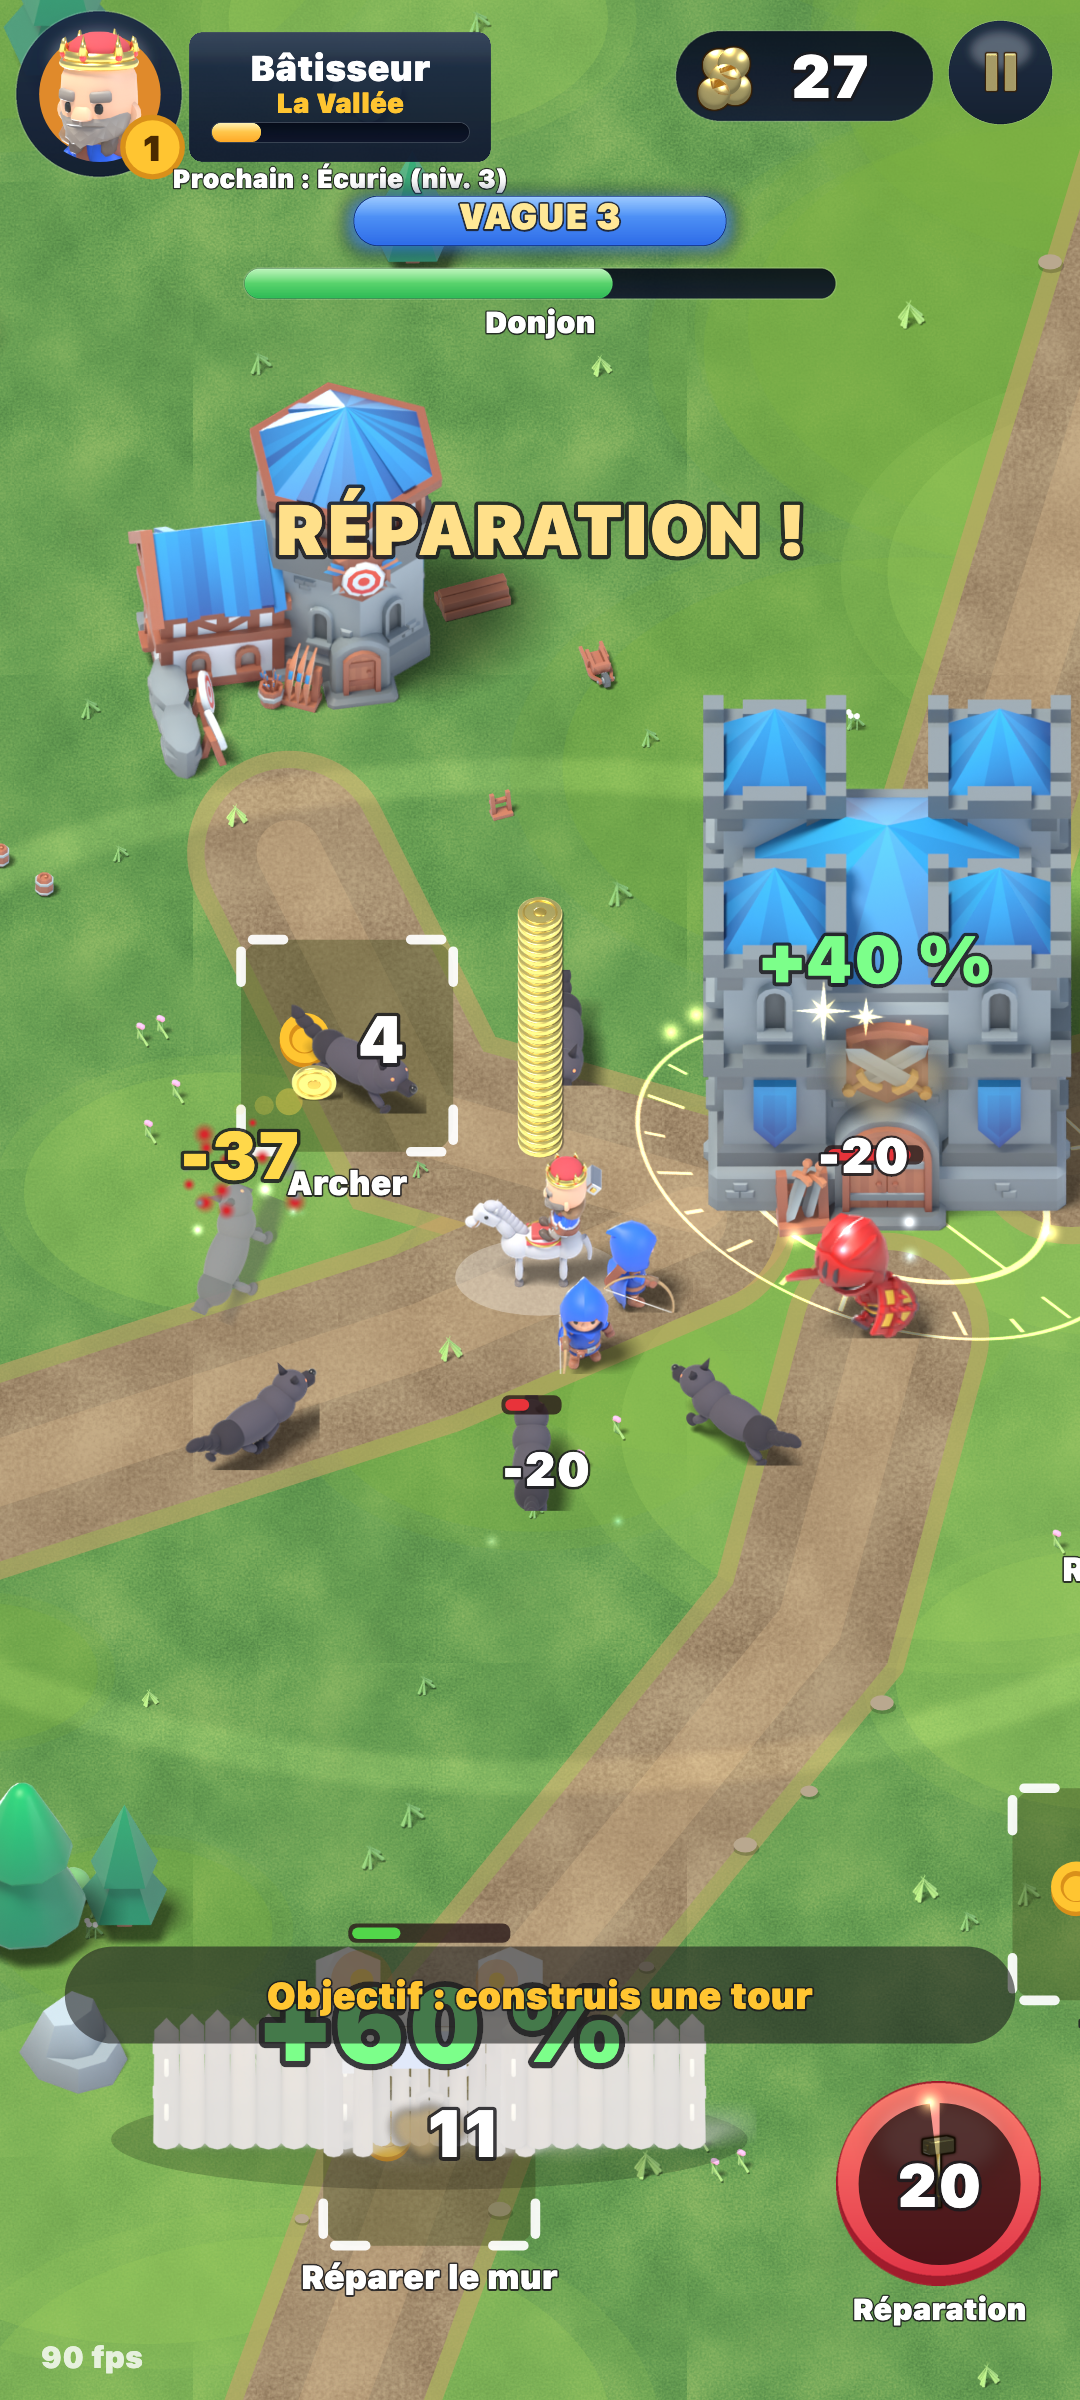
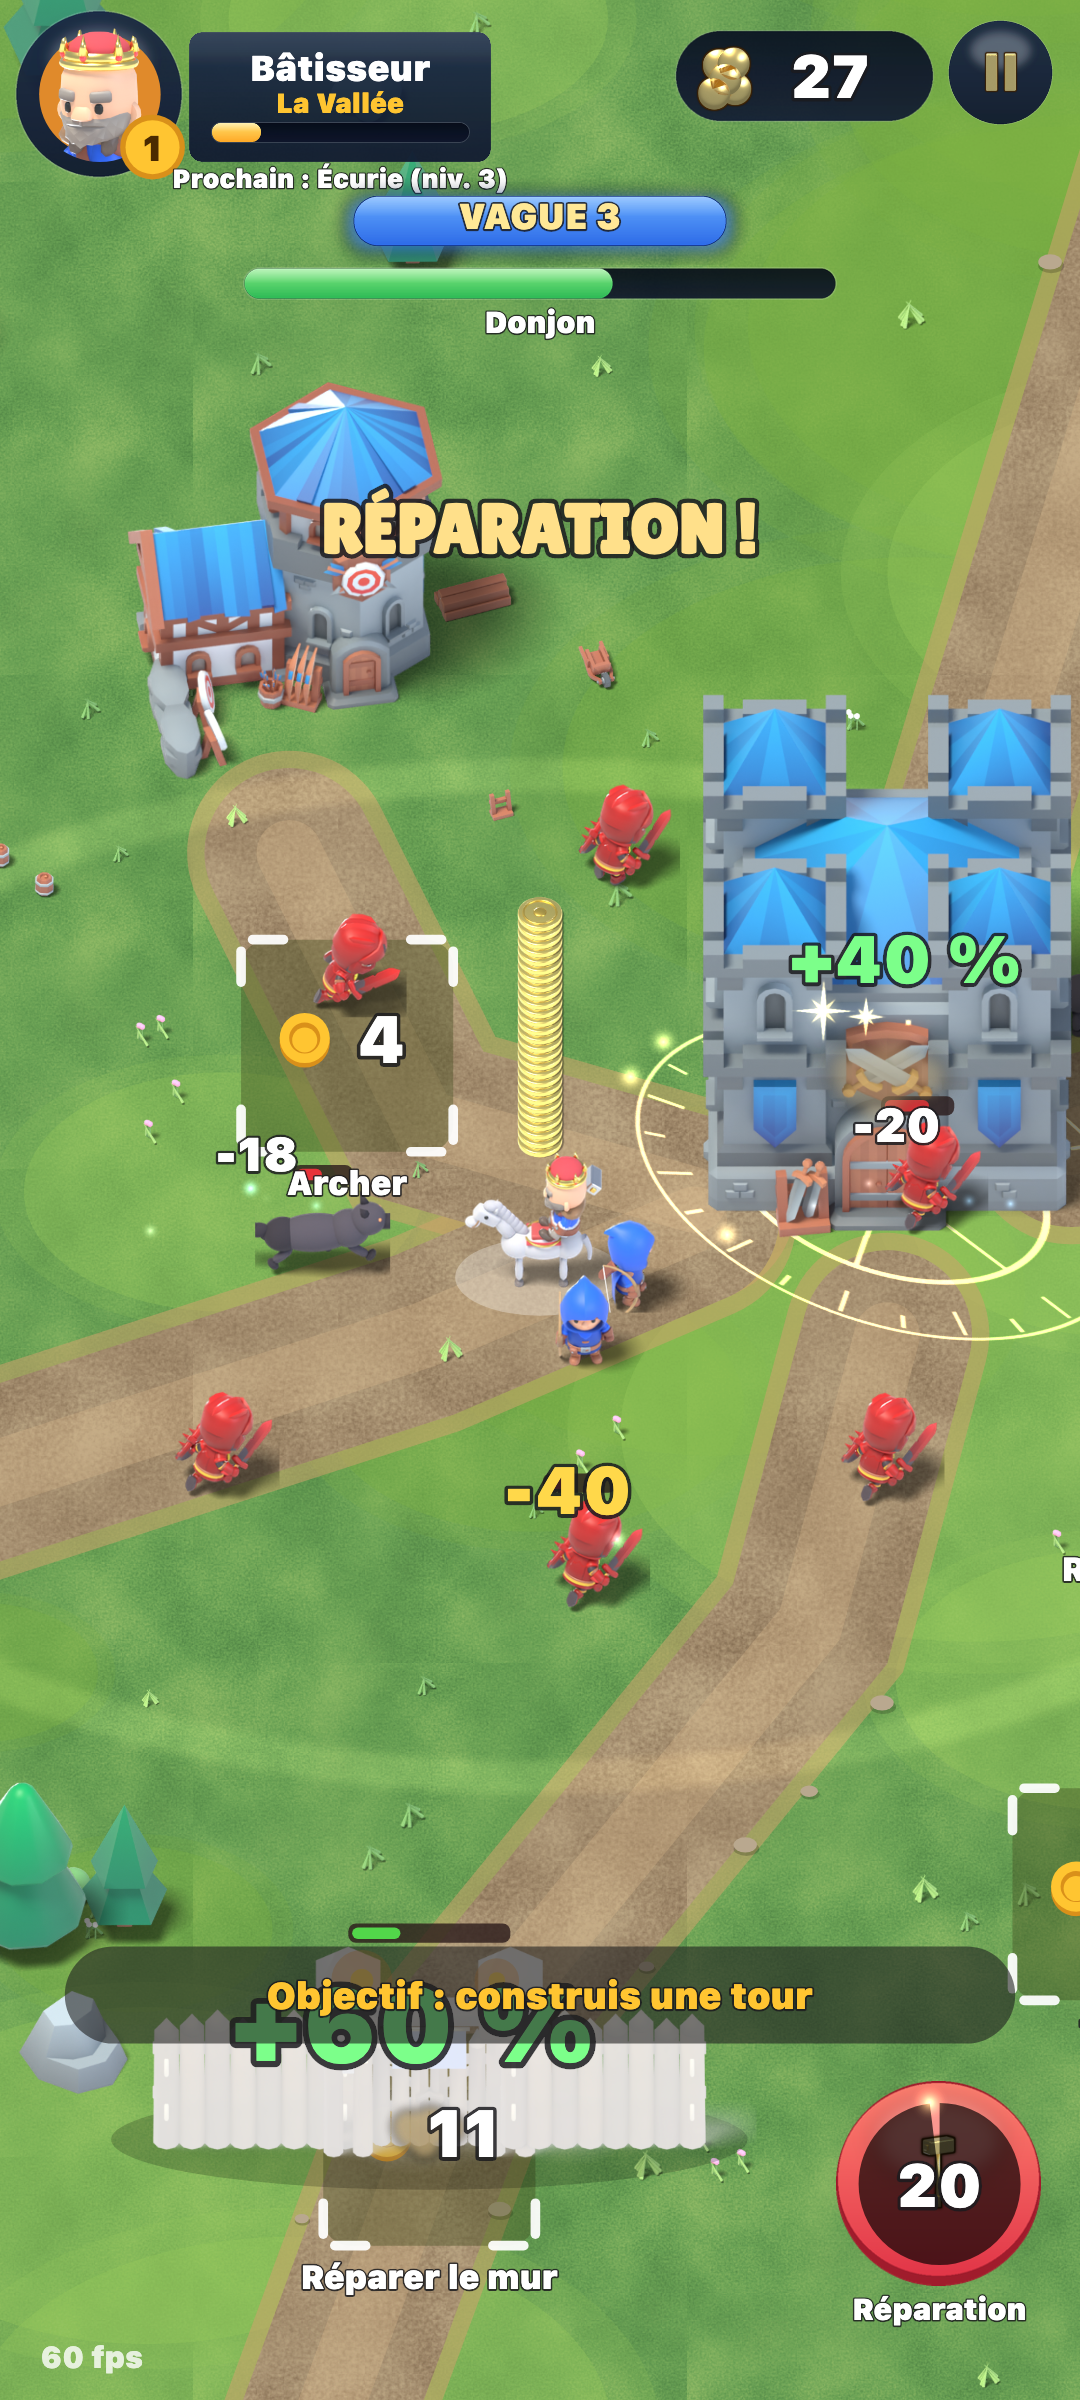
Capacités : pose de lancement du roi (épée, arc, marteau) selon la classe et le skin, utilisée pendant la rotation du Tourbillon

diff --git a/composeApp/src/commonMain/kotlin/fr/kingshot/game/Game.kt b/composeApp/src/commonMain/kotlin/fr/kingshot/game/Game.kt
@@ -402,6 +402,7 @@ class Game {
     var abilityCls = 0
     var kSpin = 0f // Tourbillon: the king turns through his 8 directions (seconds left)
     var kFlash = 0f // white flash on the king at the cast
+    var kCast = 0f // cast pose (sword / bow / hammer raised), seconds left
     var vignette = 0f // class-coloured screen edge flash (seconds left, 0.22)
     var abilityTitle = 0f // « TOURBILLON ! » title (seconds since shown, < 0.78)
     var abilityPress = 0f // HUD button bounce (seconds since press, < 0.24)
@@ -684,7 +685,7 @@ class Game {
         heroPower = (1f + 0.08f * Meta.level(heroClass, UP_POWER)) * (1f + 0.01f * min(50, Hero.level - 1))
         abilityTime = ABILITY_COOLDOWN[heroClass] * (1f - 0.06f * Meta.level(heroClass, UP_ABILITY))
         for (f in fx) f.active = false
-        abilityT = -1f; kSpin = 0f; kFlash = 0f; vignette = 0f; abilityTitle = 1f; abilityPress = 1f; abilityStop = 0f; castleHealT = -1f
+        abilityT = -1f; kSpin = 0f; kFlash = 0f; kCast = 0f; vignette = 0f; abilityTitle = 1f; abilityPress = 1f; abilityStop = 0f; castleHealT = -1f
         abilityCd = 0f; abilityFlash = 0f; paused = false; transition = 0f; camZoom = 1f; revealRoad = -1; worldZoom = 1f; fogR = 0f
         kHp = kMaxHp; kDead = false; coins = 10 * tal[TAL_START_COINS]
         squad = START_SQUAD + tal[TAL_START_ARCHERS] / 2
@@ -917,6 +918,7 @@ class Game {
         abilityCls = heroClass; abilityT = 0f; abilityStep = 0
         if (!calm) abilityStop = if (heroClass == CLASS_RANGER) 0.05f else 0.09f
         kFlash = 0.06f; vignette = 0.22f; abilityTitle = 0f; abilityPress = 0f
+        kCast = when (heroClass) { CLASS_WARRIOR -> 0.6f; CLASS_RANGER -> 0.65f; else -> 0.2f } // ranger holds the bow through the 3 salvos
         val col = ABILITY_COLORS[heroClass]
         spawnFx(FX_GLOW, kx, ky, 0.22f, col)?.r1 = 2.2f
         when (heroClass) {
@@ -967,6 +969,7 @@ class Game {
     private fun updateAbility(dt: Float) {
         if (kSpin > 0f) kSpin -= dt
         if (kFlash > 0f) kFlash -= dt
+        if (kCast > 0f) kCast -= dt
         if (abilityT < 0f) return
         val t0 = abilityT
         abilityT += dt

diff --git a/composeApp/src/commonMain/kotlin/fr/kingshot/game/Renderer.kt b/composeApp/src/commonMain/kotlin/fr/kingshot/game/Renderer.kt
@@ -219,6 +219,7 @@ class Renderer(private val measurer: TextMeasurer, private val density: Float) {
     /** Atlas of the equipped king skin, loaded on demand by App (only the one in use). */
     var kingSkin: ImageBitmap? = null
     var portraitSkin: ImageBitmap? = null
+    var kingCast: ImageBitmap? = null
     var fxi: FxImages? = null
     private val tints = HashMap<Long, ColorFilter>() // one Modulate filter per effect colour, built once
     private var scale = 1f
@@ -973,7 +974,11 @@ class Renderer(private val measurer: TextMeasurer, private val density: Float) {
         withTransform({ rotate(lean, Offset(x, y)) }) {
             // Tourbillon: the king turns through the 8 directions of his atlas, one step every 75 ms
             val dir = if (g.kSpin > 0f) (g.kDir + ((0.6f - g.kSpin) / 0.075f).toInt()) % 8 else g.kDir
-            sprite(kingImg, SpriteData.kingWarrior, col, dir, x, y, UNIT_SCALE, if (g.kHurtTimer > 2.85f || g.kFlash > 0f) flashFilter else null)
+            val flash = if (g.kHurtTimer > 2.85f || g.kFlash > 0f) flashFilter else null
+            val cast = kingCast
+            // ability pose: the cast atlas, also for the Tourbillon spin (its 8 directions scroll)
+            if (g.kCast > 0f && cast != null) sprite(cast, SpriteData.kingWarriorCast, 0, dir, x, y, UNIT_SCALE, flash)
+            else sprite(kingImg, SpriteData.kingWarrior, col, dir, x, y, UNIT_SCALE, flash)
         }
         // coin stack on the king's head
         val n = min(g.coins, MAX_STACK)

diff --git a/composeApp/src/commonMain/kotlin/fr/kingshot/game/Shop.kt b/composeApp/src/commonMain/kotlin/fr/kingshot/game/Shop.kt
@@ -157,6 +157,12 @@ object Shop {
         return if (look == 0) null else Res.allDrawableResources["king_${SKIN_PREFIX[cls]}_${SKIN_KEY[look]}"]
     }
 
+    /** Cast pose atlas (1 column × 8 directions) of the hero in its equipped skin. */
+    fun castAtlas(cls: Int): DrawableResource? {
+        val look = skinLook(cls)
+        return Res.allDrawableResources["king_${SKIN_PREFIX[cls]}${if (look == 0) "" else "_" + SKIN_KEY[look]}_cast"]
+    }
+
     /** Shop preview portrait of a skin; falls back on the class portrait. */
     fun skinPortrait(cls: Int, look: Int): DrawableResource? =
         if (look == 0) null else Res.allDrawableResources["portrait_${SKIN_PREFIX[cls]}_${SKIN_KEY[look]}"]

diff --git a/composeApp/src/commonMain/kotlin/fr/kingshot/game/App.kt b/composeApp/src/commonMain/kotlin/fr/kingshot/game/App.kt
@@ -89,6 +89,8 @@ fun App() {
     // only the equipped skin of the hero in play is decoded; switching releases the previous one from the composition
     val skinRes = remember(shopV, uiState) { Shop.skinAtlas(game.heroClass) }
     renderer.kingSkin = skinRes?.let { imageResource(it) }
+    val castRes = remember(shopV, uiState) { Shop.castAtlas(game.heroClass) }
+    renderer.kingCast = castRes?.let { imageResource(it) }
     val portraitRes = remember(shopV, uiState) { Shop.skinPortrait(game.heroClass, Shop.skinLook(game.heroClass)) }
     renderer.portraitSkin = portraitRes?.let { imageResource(it) }
     var pausedUi by remember { mutableStateOf(false) }
